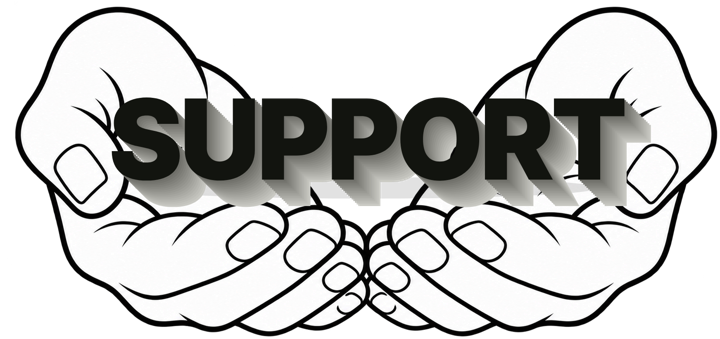
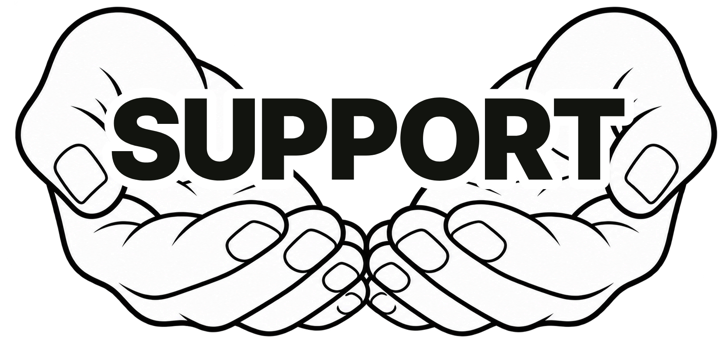
Use black lettering with a white outline for the object text
WORKS, ABOUT MIKA, PRIVACY and GOODS are now black text surrounded by a
white outline (a ring of text-shadows) instead of the grey stacked
extrusion, so they stay readable over busy backdrops. The SUPPORT image is
regenerated the same way. The sign text is unchanged.

Claude-Session: https://claude.ai/code/session_01WBDsSfETW3fNnHvtUVZgDo

diff --git a/src/components/RoomHero.module.css b/src/components/RoomHero.module.css
@@ -97,6 +97,8 @@
 /* 立体文字（WORKS / ABOUT MIKA / PRIVACY 共通） */
 .wordmark { --fs: 66px; position: relative; display: block; height: calc(var(--lines, 1) * var(--fs) * .96 + 4px); font-size: var(--fs); font-weight: 900; letter-spacing: -.04em; line-height: .96; text-align: center; white-space: pre-line; }
 .wordmark > span { position: absolute; left: 0; right: 0; top: 0; }
+.outline { color: #ffffff; text-shadow: 0.100em 0.000em 0 #fff, 0.092em 0.038em 0 #fff, 0.071em 0.071em 0 #fff, 0.038em 0.092em 0 #fff, 0.000em 0.100em 0 #fff, -0.038em 0.092em 0 #fff, -0.071em 0.071em 0 #fff, -0.092em 0.038em 0 #fff, -0.100em 0.000em 0 #fff, -0.092em -0.038em 0 #fff, -0.071em -0.071em 0 #fff, -0.038em -0.092em 0 #fff, -0.000em -0.100em 0 #fff, 0.038em -0.092em 0 #fff, 0.071em -0.071em 0 #fff, 0.092em -0.038em 0 #fff, 0.065em 0.000em 0 #fff, 0.060em 0.025em 0 #fff, 0.046em 0.046em 0 #fff, 0.025em 0.060em 0 #fff, 0.000em 0.065em 0 #fff, -0.025em 0.060em 0 #fff, -0.046em 0.046em 0 #fff, -0.060em 0.025em 0 #fff, -0.065em 0.000em 0 #fff, -0.060em -0.025em 0 #fff, -0.046em -0.046em 0 #fff, -0.025em -0.060em 0 #fff, -0.000em -0.065em 0 #fff, 0.025em -0.060em 0 #fff, 0.046em -0.046em 0 #fff, 0.060em -0.025em 0 #fff, 0.030em 0.000em 0 #fff, 0.028em 0.011em 0 #fff, 0.021em 0.021em 0 #fff, 0.011em 0.028em 0 #fff, 0.000em 0.030em 0 #fff, -0.011em 0.028em 0 #fff, -0.021em 0.021em 0 #fff, -0.028em 0.011em 0 #fff, -0.030em 0.000em 0 #fff, -0.028em -0.011em 0 #fff, -0.021em -0.021em 0 #fff, -0.011em -0.028em 0 #fff, -0.000em -0.030em 0 #fff, 0.011em -0.028em 0 #fff, 0.021em -0.021em 0 #fff, 0.028em -0.011em 0 #fff; }
+.fill { color: #12140f; }
 
 .about { width: 276px; }
 .overMark { position: absolute; left: 0; right: 0; bottom: 10%; }

diff --git a/src/components/RoomHero.tsx b/src/components/RoomHero.tsx
@@ -62,17 +62,11 @@ function smooth(t: number) {
 
 function Wordmark({ text, size }: { text: string; size?: number }) {
   const lines = text.split("\n").length;
+  // 背景が賑やかでも読めるよう、黒い文字を白い縁で囲む（縁は text-shadow の輪）
   return (
     <span className={styles.wordmark} style={{ "--lines": lines, ...(size ? { "--fs": `${size}px` } : {}) } as CSSProperties} aria-hidden="true">
-      {Array.from({ length: 10 }, (_, index) => {
-        const depth = 9 - index;
-        const grey = depth === 0 ? 18 : 120 + depth * 9;
-        return (
-          <span key={depth} style={{ color: `rgb(${grey},${grey + 2},${grey - 3})`, transform: `translate(${depth * 1.2}px, ${depth * 1.2}px)` }}>
-            {text}
-          </span>
-        );
-      })}
+      <span className={styles.outline}>{text}</span>
+      <span className={styles.fill}>{text}</span>
     </span>
   );
 }
